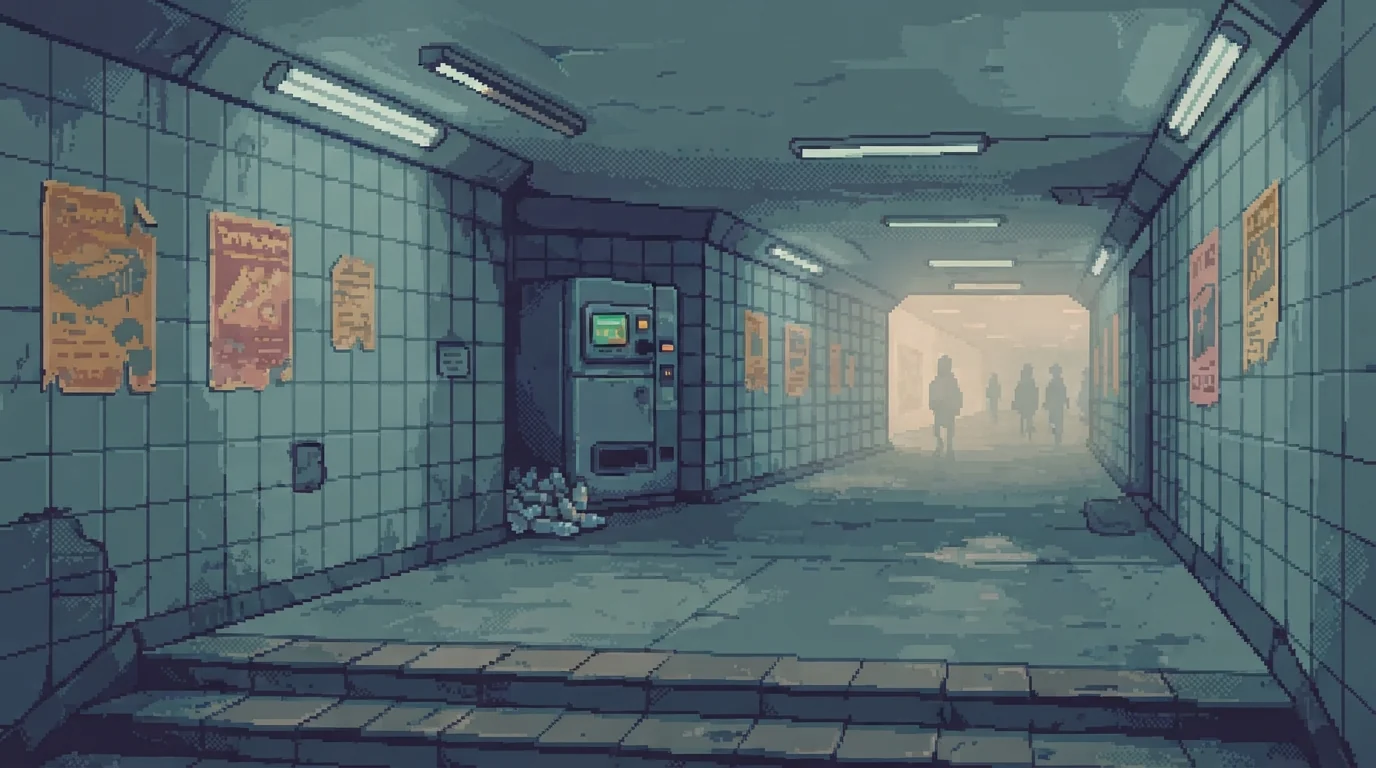
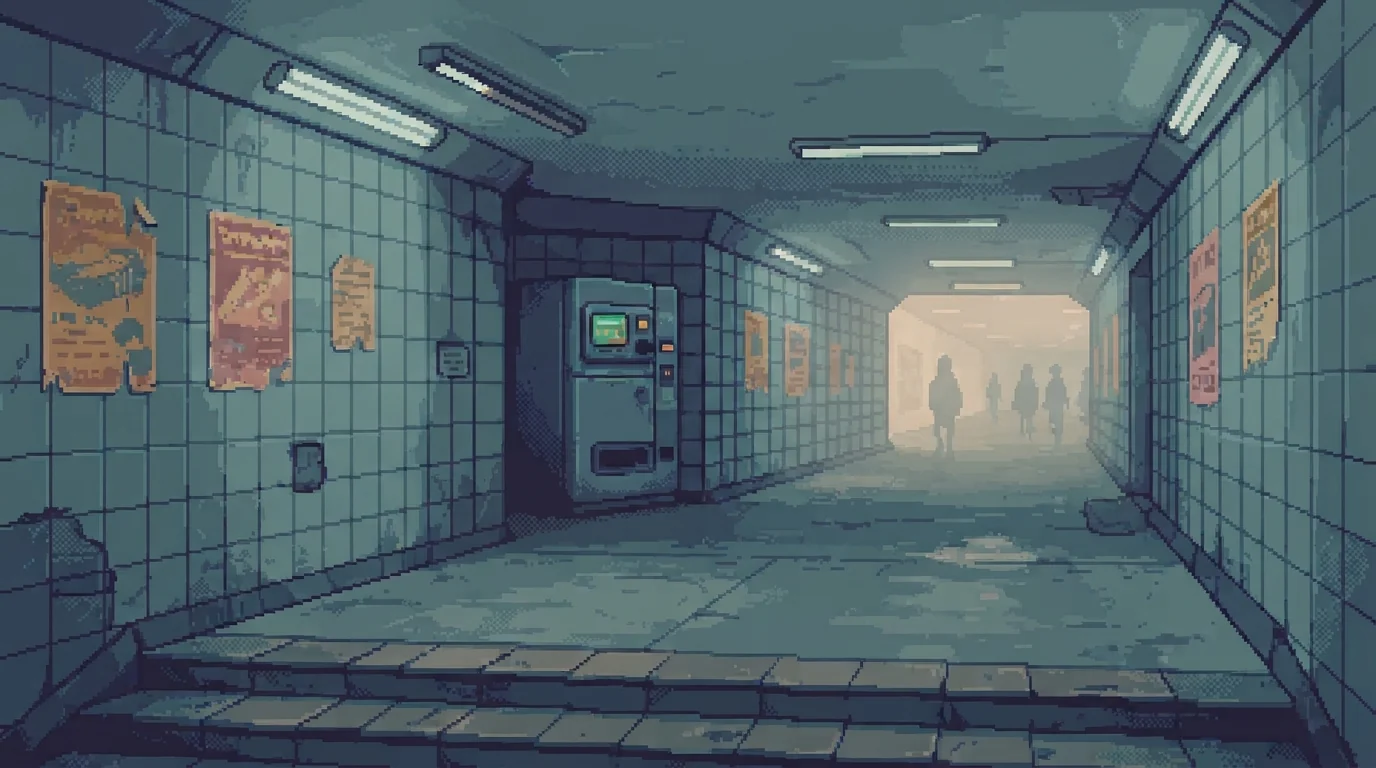
A játékok képei kikerülnek a repóból (tartalom, nem a motor része)
- Javítás: a napszakos képváltozat megelőzi az időjárásosat

Changed region(s): [[0.3438, 0.5938, 0.4375, 0.7188]]

diff --git a/src/Game/GameEngine.php b/src/Game/GameEngine.php
@@ -2185,12 +2185,16 @@ final class GameEngine
         if (is_string($flag)) {
             $variants[] = $flag;
         }
+        // Sorrend: kombinált (esos-ejszaka) → napszak (ejszaka) → időjárás (esos) → alapkép.
+        // A napszak előbb jön: éjjel egy esős nappali kép rosszabb, mint egy eső nélküli éjszakai.
         if ($minute !== null && $state?->weather() !== null) {
             $variants[] = $state->weather().'-'.Context::dayPartOf($minute); // pl. park_pad~esos-ejszaka.webp
-            $variants[] = (string) $state->weather();                         // pl. park_pad~esos.webp
         }
         if ($minute !== null) {
-            $variants[] = Context::dayPartOf($minute); // pl. park_pad~ejszaka.webp
+            $variants[] = Context::dayPartOf($minute);                        // pl. park_pad~ejszaka.webp
+        }
+        if ($state?->weather() !== null) {
+            $variants[] = (string) $state->weather();                         // pl. park_pad~esos.webp
         }
         foreach ($variants as $variant) {
             if (!preg_match('/^[a-z0-9_-]+$/', $variant) || $this->imageDir === null || $this->imageUrl === null) {
